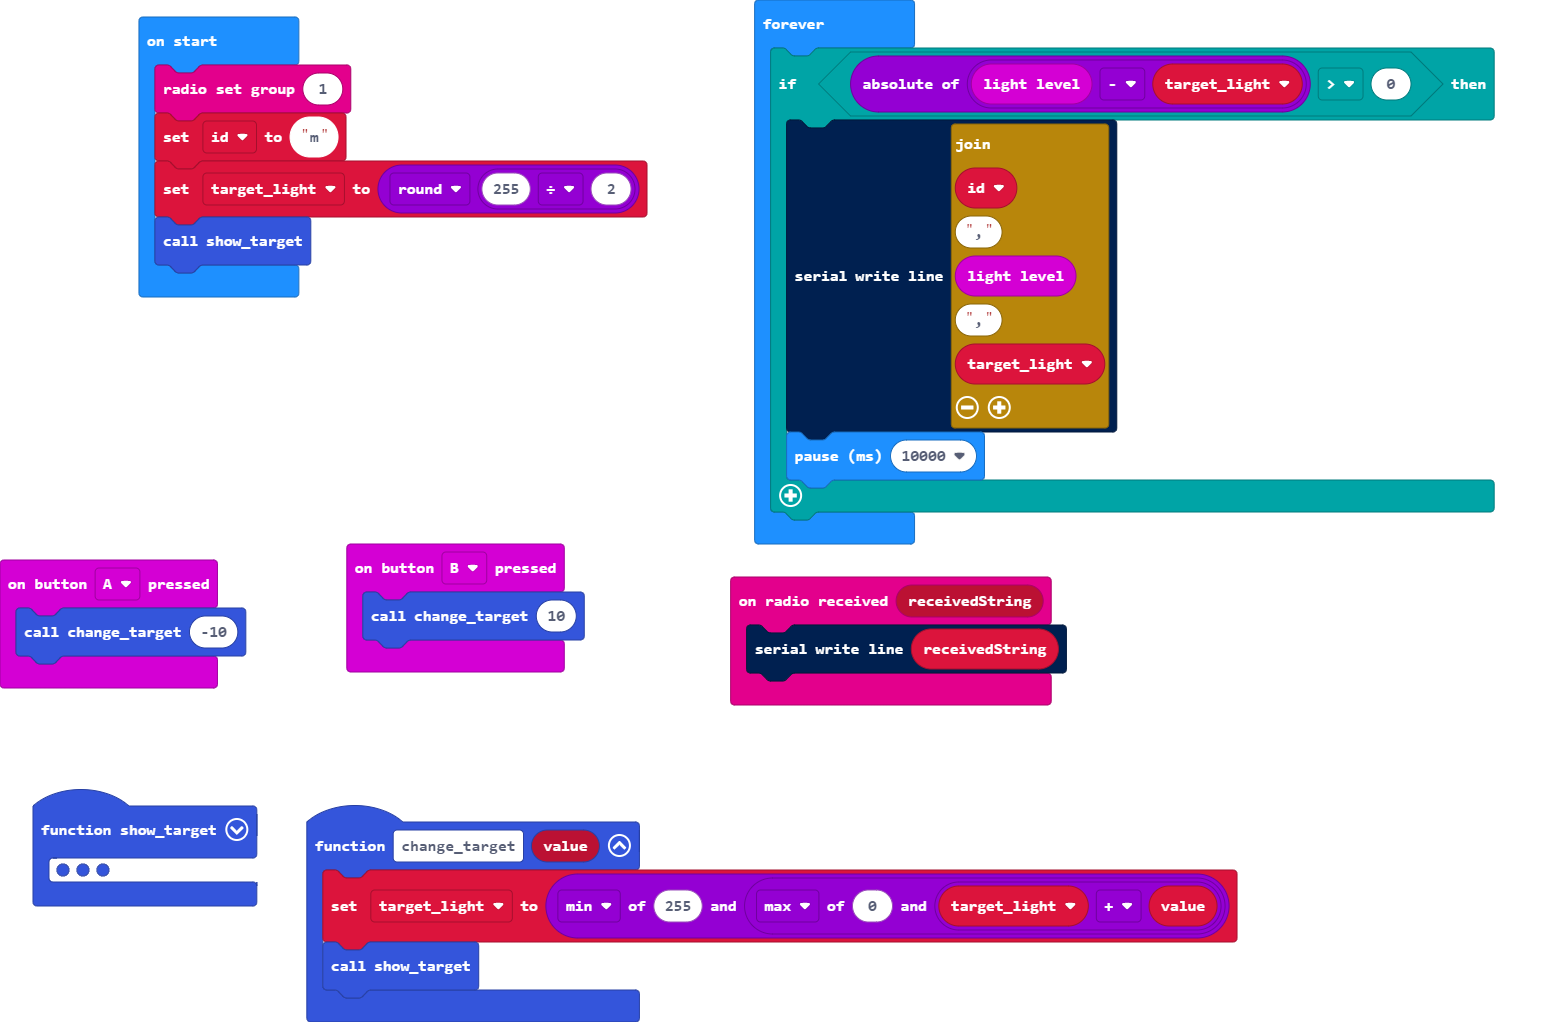
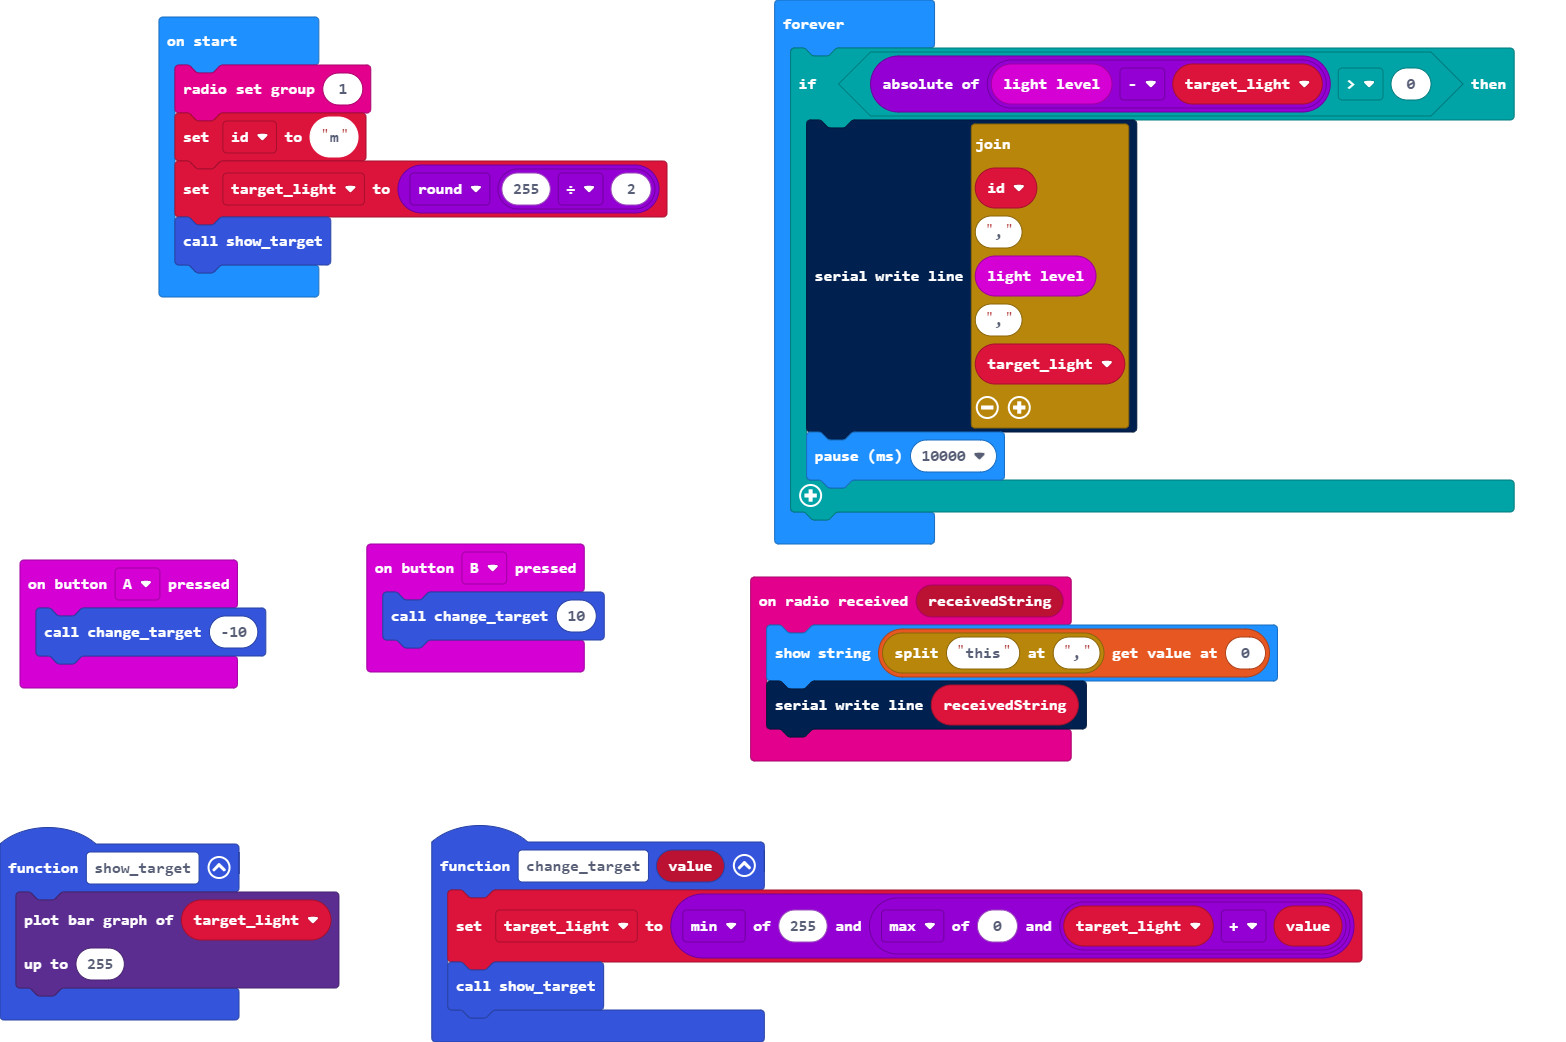
Update main.blocks, main.ts

diff --git a/main.ts b/main.ts
@@ -6,6 +6,7 @@ function change_target (value: number) {
     show_target()
 }
 radio.onReceivedString(function (receivedString) {
+    basic.showString("" + ("this".split(",")[0]))
     serial.writeLine(receivedString)
 })
 input.onButtonPressed(Button.B, function () {
